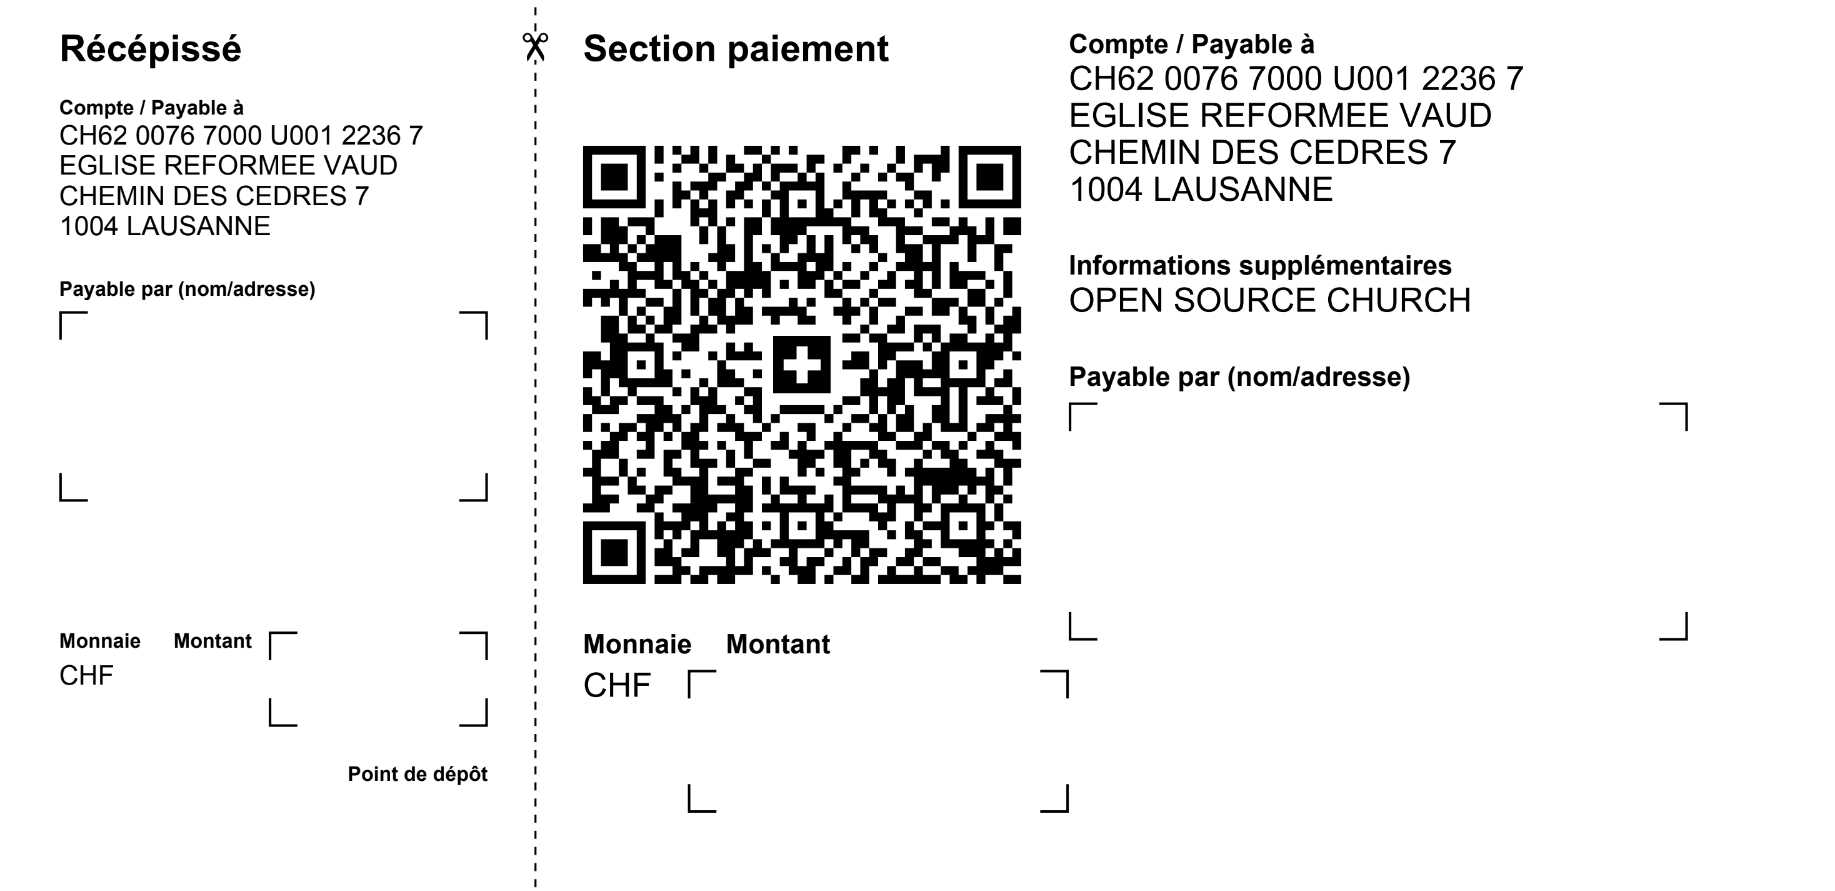
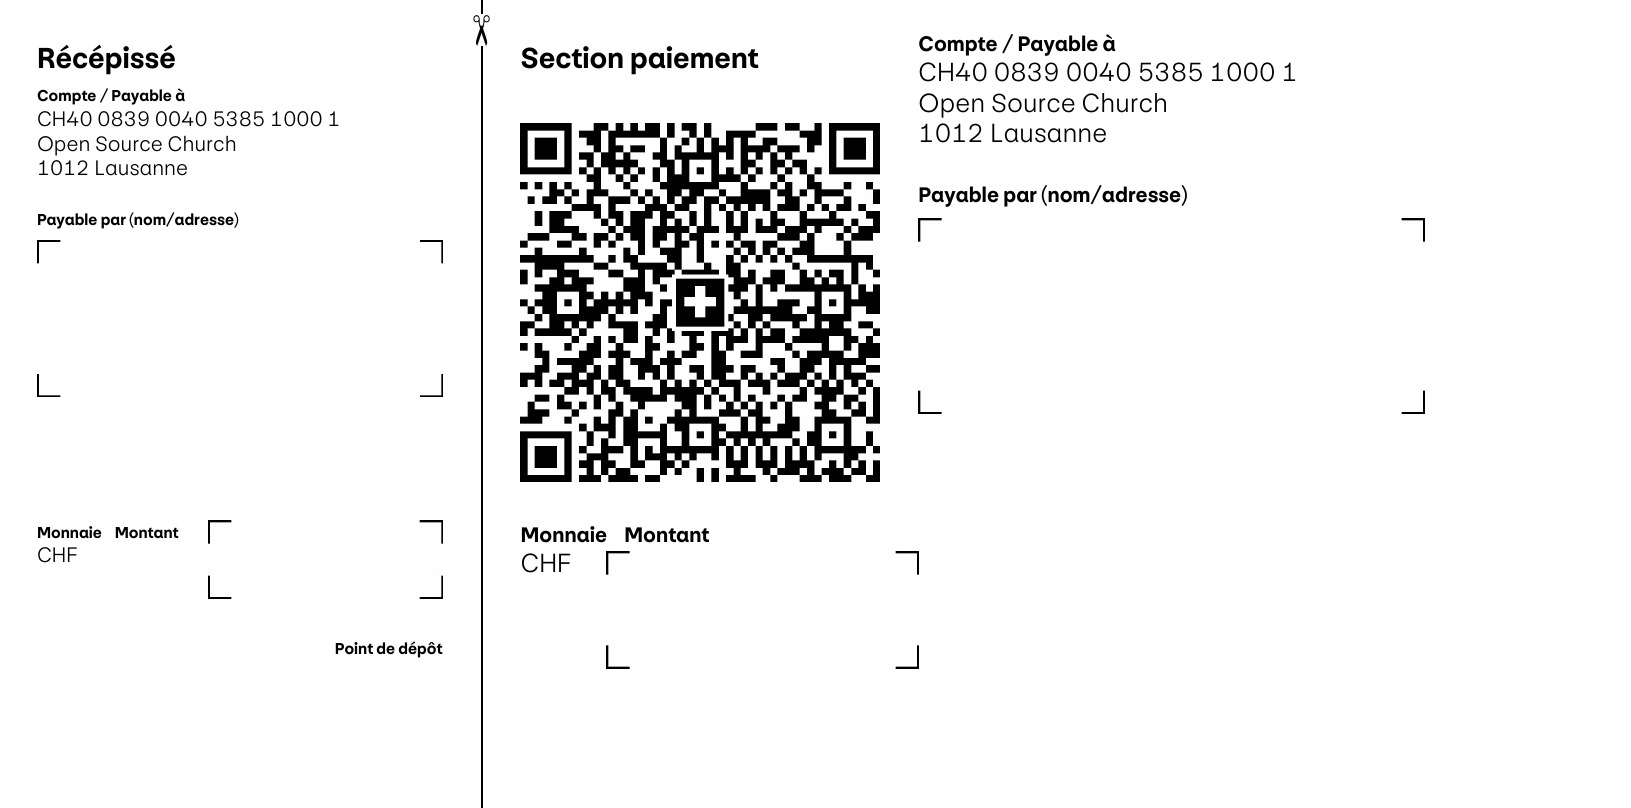
Mise à jour des coordonnées bancaires et twint

diff --git a/themes/hugo-osc/layouts/partials/footer.html b/themes/hugo-osc/layouts/partials/footer.html
@@ -45,9 +45,8 @@
           </a>
           <!-- Coordonnées bancaires -->
           <h4 class="text-white mt-5">Coordonnées bancaires</h4>
-          CH62 0076 7000 U001 2236 7  </br>
-          Eglise Réformée Vaud</br>Chemin des Cèdres 7</br>1004 Lausanne</br>
-          Mention: Open Source Church
+          CH40 0839 0040 5385 1000 1  </br>
+          Open Source Church<br/>Avenue de Chailly 52<br/>1012 Lausanne
         </div>
         <!-- company -->
         <div class="col-lg-2 col-sm-4 col-6 mb-5 mb-lg-0">

diff --git a/content/french/contribuer/_index.md b/content/french/contribuer/_index.md
@@ -12,7 +12,9 @@ contrib:
 - title: Magicien·ne
   image: https://images.unsplash.com/photo-1551269901-5c5e14c25df7?ixlib=rb-1.2.1&ixid=MnwxMjA3fDB8MHxwaG90by1wYWdlfHx8fGVufDB8fHx8&auto=format&fit=crop&w=2069&q=80
   summary: "Viens bidouiller sur des projets existants, ou en proposer des nouveaux."
-  buttons: [["Github", "https://github.com/open-source-church", "github"]]
+  buttons: 
+  - ["Github", "https://github.com/open-source-church", "github"]
+  - ["Gitlab", "https://gitlab.com/opensourcechurch", "gitlab"]
 - title: Héraut
   summary: Parle d'Open Source Church, partage les contenus et publications.
   image: "https://images.squarespace-cdn.com/content/5356aa98e4b0e10db1993391/1398260977324-SH1KA6R0KAHERUP5BGZS/Centaurs-Herald.jpg?content-type=image%2Fjpeg"

diff --git a/content/french/soutenir/_index.md b/content/french/soutenir/_index.md
@@ -66,13 +66,11 @@ L'argent est utilisé pour:
           <div class="bg-dark" style="padding: 1em;">
             <h3>Coordonnées bancaires</h3>
             <span class="fs-1">
-            CH62 0076 7000 U001 2236 7  </br>
-            Eglise Réformée Vaud   </br>
-            Chemin des Cèdres 7   </br>
-            1004 Lausanne   </br>
-            Mention: Open Source Church   </br></br></br>
+            CH40 0839 0040 5385 1000 1  </br>
+            Open Source Church   </br>
+            Avenue de Chailly 52   </br>
+            1012 Lausanne
             </span>
-            <i>La mention est importante</i>
           </div>
         </div>
     </div>
